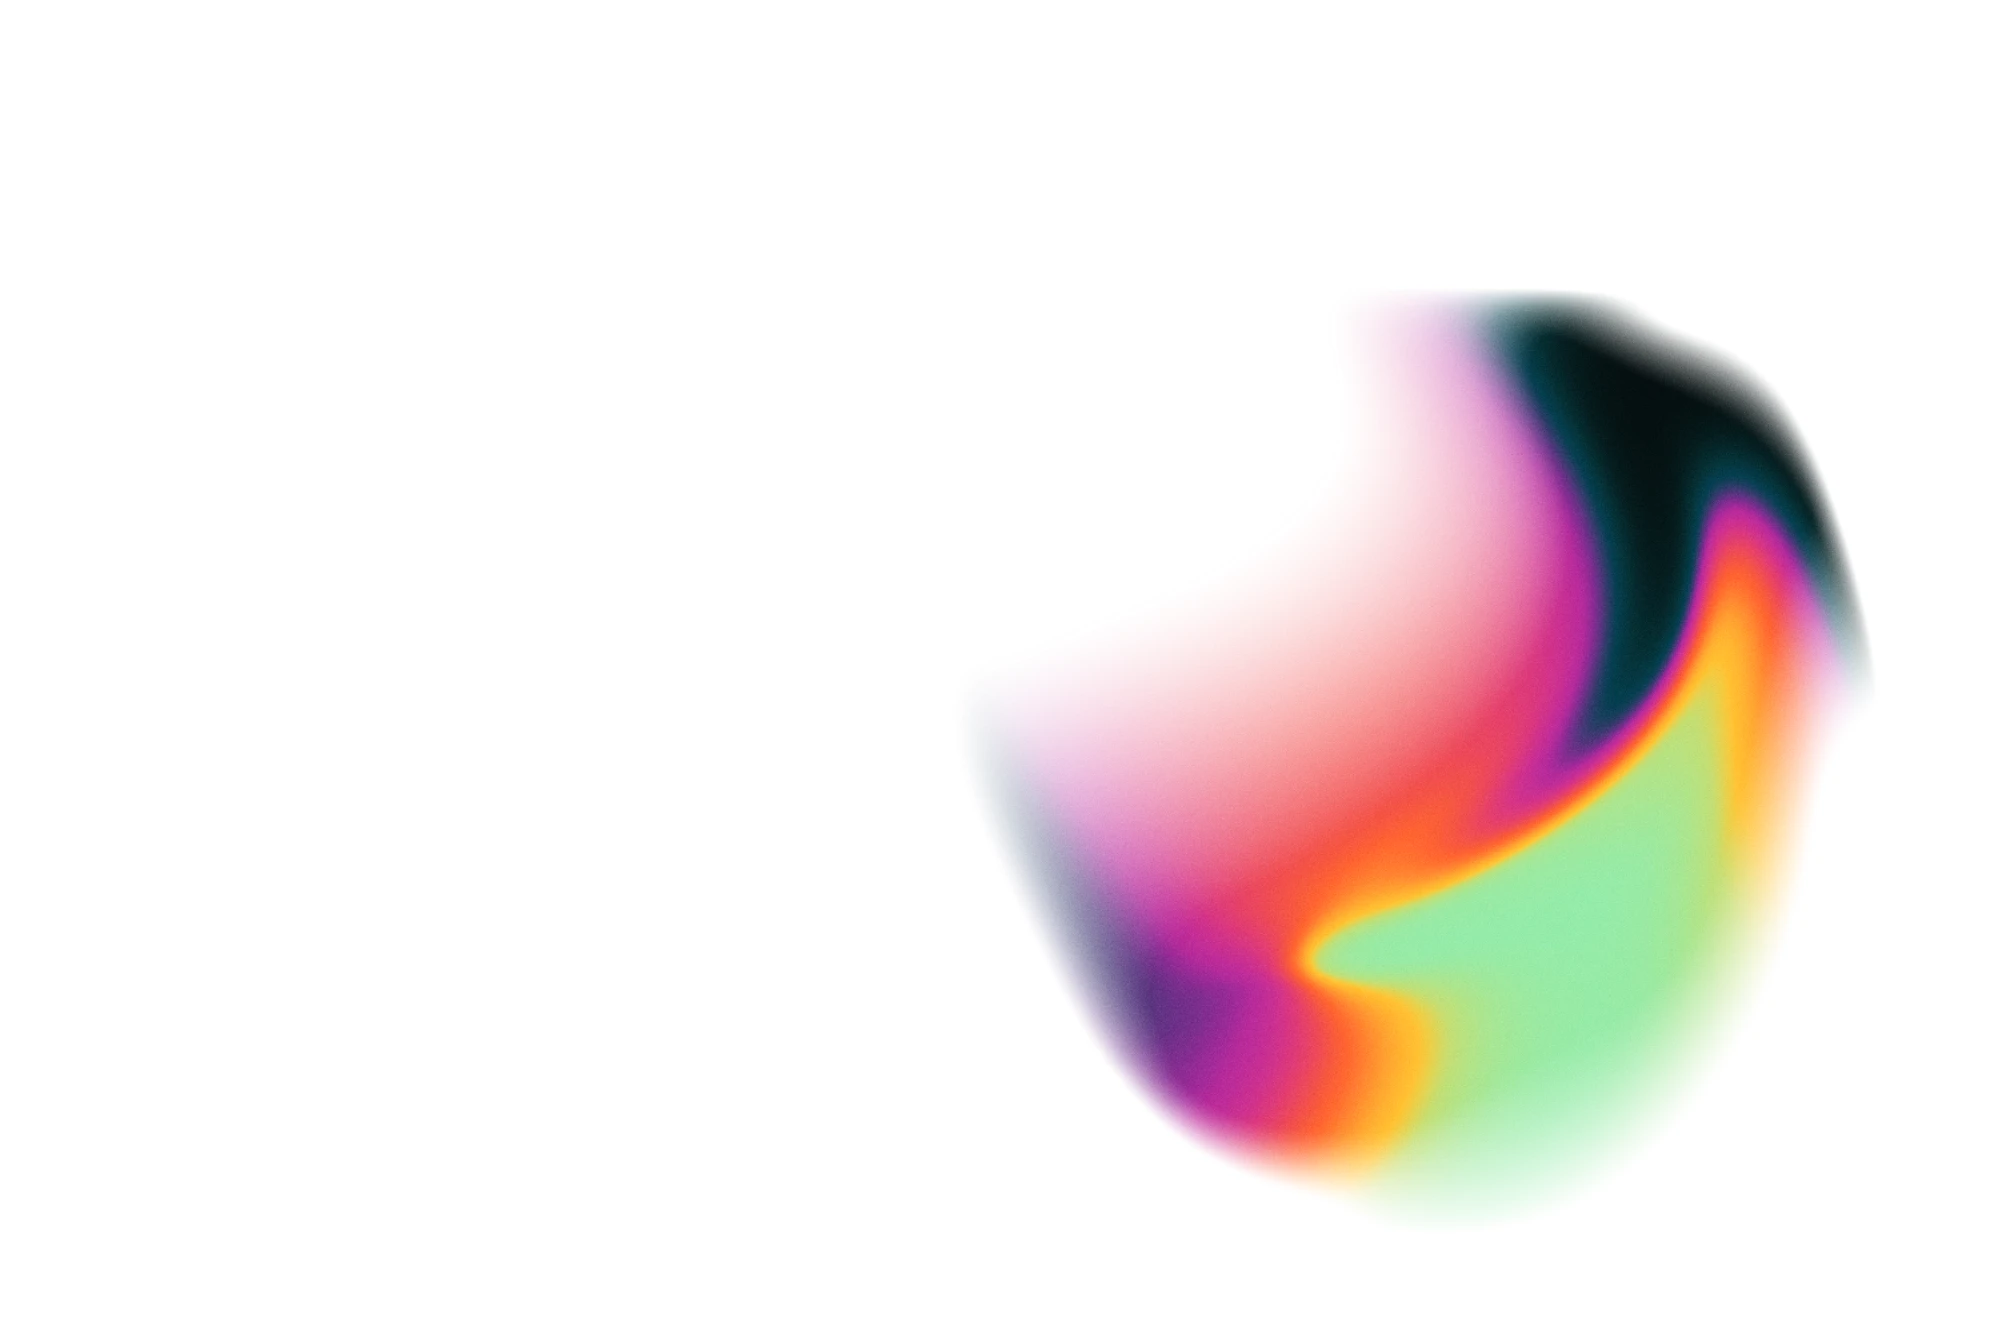
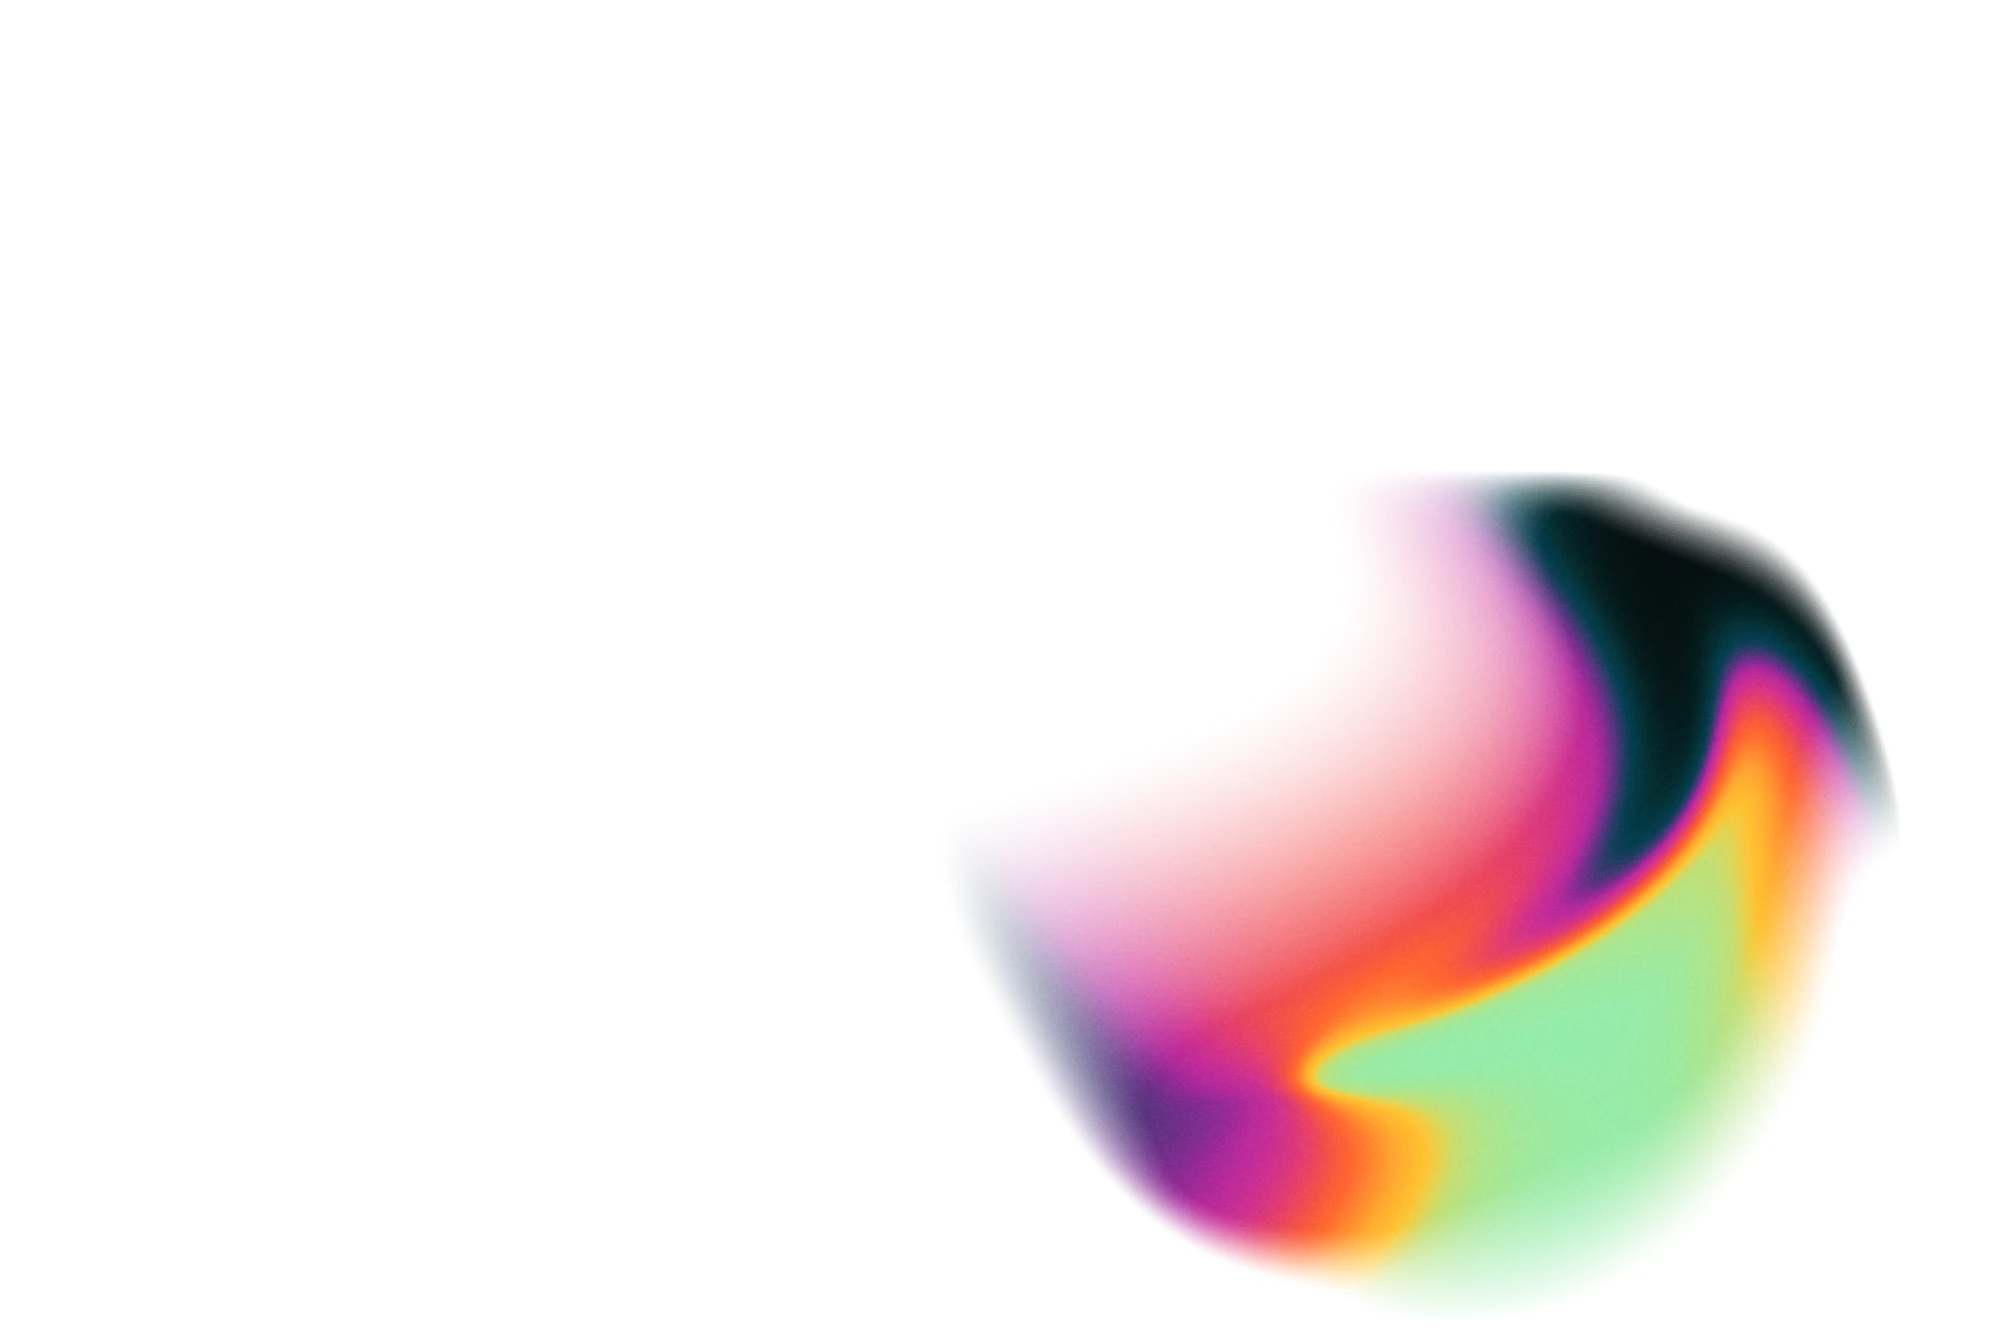
Landing page: hover turns the page dark and the buttons bright
Hovering or keyboard-focusing the buttons cross-fades the page to black
with the supplied dark orb artwork (same liquid/rotate/blend motion,
with colours glowing where they overlap), the headline turns white and
the buttons turn bright white with a glow in each button's colour.
The page background is driven from the same value as the orb so there
is never a visible band during the transition. Uses the matched
light/dark orb pair; the orb now sits a little lower in the frame.

Changed region(s): [[0.465, 0.2153, 0.961, 0.9842]]

diff --git a/assets/js/landing.js b/assets/js/landing.js
@@ -3,9 +3,22 @@
 
   const orb = document.querySelector(".orb");
   if (!orb) return;
+
+  // Hovering or focusing the buttons turns the page dark and the buttons bright.
+  const choices = document.querySelector(".choices");
+  const setDark = (on) => document.body.classList.toggle("is-dark", on);
+  if (choices) {
+    choices.addEventListener("pointerenter", (e) => { if (e.pointerType !== "touch") setDark(true); });
+    choices.addEventListener("pointerleave", () => setDark(false));
+    choices.addEventListener("focusin", (e) => { if (e.target.matches(":focus-visible")) setDark(true); });
+    choices.addEventListener("focusout", () => setDark(false));
+  }
+  window.addEventListener("pageshow", () => setDark(false));
+
   if (window.matchMedia("(prefers-reduced-motion: reduce)").matches) return;
 
   const IMG_SRC = "/assets/images/landing/orb.webp";
+  const IMG_DARK_SRC = "/assets/images/landing/orb-dark.webp";
   const mobileMQ = window.matchMedia("(max-width: 760px), (max-aspect-ratio: 1/1)");
   const DPR = Math.min(window.devicePixelRatio || 1, 1.5);
 
@@ -27,13 +40,15 @@
   const FRAG = `
     precision highp float;
     uniform sampler2D u_tex;
+    uniform sampler2D u_tex2;
+    uniform float u_dark;
     uniform vec2 u_res;
     uniform vec4 u_rect;
     uniform float u_time;
     uniform vec2 u_mouse;
     uniform float u_hover;
 
-    const vec2 C = vec2(0.71, 0.57);      // orb centre in image space
+    const vec2 C = vec2(0.715, 0.67);     // orb centre in image space
     const vec2 ASPECT = vec2(1.5, 1.0);   // image width : height
 
     float hash(vec2 p) {
@@ -72,6 +87,11 @@
                   texture2D(u_tex, uv + d * 1.07).g,
                   texture2D(u_tex, uv + d * 1.14).b);
     }
+    vec3 sampleDark(vec2 uv, vec2 d) {
+      return vec3(texture2D(u_tex2, uv + d).r,
+                  texture2D(u_tex2, uv + d * 1.07).g,
+                  texture2D(u_tex2, uv + d * 1.14).b);
+    }
 
     void main() {
       vec2 frag = vec2(gl_FragCoord.x, u_res.y - gl_FragCoord.y);
@@ -92,14 +112,23 @@
       disp += normalize(dv + 1e-5) * 0.03 * exp(-dot(dv, dv) * 45.0) * u_hover;
 
       // Two copies of the orb turning in opposite directions at different speeds
-      vec3 a = sampleOrb(swirl(uv, t * 0.07, 1.4 * sin(t * 0.11), 1.0), disp);
-      vec3 b = sampleOrb(swirl(uv, -t * 0.045 + 2.2, -1.1 * sin(t * 0.085 + 1.0), 1.06), disp * 0.8);
-
-      // Blend them like inks on white paper: they merge, deepen where they overlap, then part again
-      vec3 inkA = 1.0 - a, inkB = 1.0 - b;
+      vec2 uvA = swirl(uv, t * 0.07, 1.4 * sin(t * 0.11), 1.0);
+      vec2 uvB = swirl(uv, -t * 0.045 + 2.2, -1.1 * sin(t * 0.085 + 1.0), 1.06);
       float w = 0.5 + 0.5 * sin(t * 0.14);
-      vec3 ink = mix(inkA, inkB, w) + 0.28 * min(inkA, inkB);
-      vec3 col = clamp(1.0 - ink, 0.0, 1.0);
+
+      vec3 col = vec3(1.0);
+      if (u_dark < 0.999) {
+        // Light: blend them like inks on white paper, deepening where they overlap
+        vec3 inkA = 1.0 - sampleOrb(uvA, disp), inkB = 1.0 - sampleOrb(uvB, disp * 0.8);
+        vec3 ink = mix(inkA, inkB, w) + 0.28 * min(inkA, inkB);
+        col = clamp(1.0 - ink, 0.0, 1.0);
+      }
+      if (u_dark > 0.001) {
+        // Dark: the same motion, but colours glow where they overlap, like light on black
+        vec3 a2 = sampleDark(uvA, disp), b2 = sampleDark(uvB, disp * 0.8);
+        vec3 colD = clamp(mix(a2, b2, w) + 0.22 * min(a2, b2), 0.0, 1.0);
+        col = mix(col, colD, u_dark);
+      }
       float lum = dot(col, vec3(0.299, 0.587, 0.114));
       col = clamp(mix(vec3(lum), col, 1.35), 0.0, 1.0);   // keep blended colours vivid
 
@@ -136,7 +165,7 @@
   gl.vertexAttribPointer(loc, 2, gl.FLOAT, false, 0, 0);
 
   const U = {};
-  ["u_tex", "u_res", "u_rect", "u_time", "u_mouse", "u_hover"].forEach((n) => (U[n] = gl.getUniformLocation(prog, n)));
+  ["u_tex", "u_tex2", "u_dark", "u_res", "u_rect", "u_time", "u_mouse", "u_hover"].forEach((n) => (U[n] = gl.getUniformLocation(prog, n)));
 
   /* ---------- Layout (mirrors the CSS background sizing) ---------- */
   let IW = 2000, IH = 1333;
@@ -170,7 +199,24 @@
     mouse.timer = setTimeout(() => (mouse.target = 0), 1400);
   }, { passive: true });
 
-  /* ---------- Texture + loop ---------- */
+  /* ---------- Textures + loop ---------- */
+  const dark = { value: 0, ready: false };
+  const darkImg = new Image();
+  darkImg.onload = () => {
+    const tex2 = gl.createTexture();
+    gl.activeTexture(gl.TEXTURE1);
+    gl.bindTexture(gl.TEXTURE_2D, tex2);
+    gl.texImage2D(gl.TEXTURE_2D, 0, gl.RGB, gl.RGB, gl.UNSIGNED_BYTE, darkImg);
+    gl.texParameteri(gl.TEXTURE_2D, gl.TEXTURE_WRAP_S, gl.CLAMP_TO_EDGE);
+    gl.texParameteri(gl.TEXTURE_2D, gl.TEXTURE_WRAP_T, gl.CLAMP_TO_EDGE);
+    gl.texParameteri(gl.TEXTURE_2D, gl.TEXTURE_MIN_FILTER, gl.LINEAR);
+    gl.texParameteri(gl.TEXTURE_2D, gl.TEXTURE_MAG_FILTER, gl.LINEAR);
+    gl.uniform1i(U.u_tex2, 1);
+    gl.activeTexture(gl.TEXTURE0);
+    dark.ready = true;
+  };
+  darkImg.src = IMG_DARK_SRC;
+
   const img = new Image();
   img.onload = () => {
     IW = img.naturalWidth;
@@ -188,20 +234,31 @@
     layout();
     let last = performance.now();
     let first = true;
+    let lastShade = -1;
 
     const frame = (now) => {
       const dt = Math.min((now - last) / 1000, 0.1);
       last = now;
       mouse.hover += (mouse.target - mouse.hover) * Math.min(dt * 3, 1);
+      const darkTarget = dark.ready && document.body.classList.contains("is-dark") ? 1 : 0;
+      dark.value += (darkTarget - dark.value) * Math.min(dt * 5, 1);
+      if (Math.abs(darkTarget - dark.value) < 0.002) dark.value = darkTarget;
+      // Keep the page colour in lock-step with the orb so there is never a visible band between them
+      const shade = Math.round(255 * (1 - dark.value));
+      if (shade !== lastShade) {
+        lastShade = shade;
+        document.body.style.backgroundColor = `rgb(${shade}, ${shade}, ${shade})`;
+      }
 
       gl.uniform2f(U.u_res, W, H);
       gl.uniform4f(U.u_rect, rect[0], rect[1], rect[2], rect[3]);
       gl.uniform1f(U.u_time, now / 1000);
       gl.uniform2f(U.u_mouse, mouse.x, mouse.y);
       gl.uniform1f(U.u_hover, mouse.hover);
+      gl.uniform1f(U.u_dark, dark.value);
       gl.drawArrays(gl.TRIANGLE_STRIP, 0, 4);
 
-      if (first) { first = false; orb.classList.add("gl-on"); }
+      if (first) { first = false; orb.classList.add("gl-on"); document.body.classList.add("gl-bg"); }
       requestAnimationFrame(frame);
     };
     requestAnimationFrame(frame);

diff --git a/assets/css/landing.css b/assets/css/landing.css
@@ -18,6 +18,7 @@ body {
   font-family: "Inter", "Helvetica Neue", Arial, sans-serif;
   -webkit-font-smoothing: antialiased;
   overflow-x: hidden;
+  transition: background-color 0.7s ease;
 }
 
 .orb {
@@ -94,7 +95,7 @@ h1 {
   font-weight: 600;
   letter-spacing: -0.01em;
   box-shadow: 0 16px 30px -18px rgba(17, 19, 32, 0.7);
-  transition: transform 0.35s var(--ease), background 0.25s, border-color 0.25s, box-shadow 0.35s var(--ease);
+  transition: transform 0.35s var(--ease), background 0.5s, border-color 0.5s, color 0.5s, box-shadow 0.5s var(--ease);
 }
 
 .choice-dot {
@@ -125,6 +126,44 @@ h1 {
 .choice:focus-visible { outline: 3px solid var(--coral); outline-offset: 3px; }
 .choice:active { transform: translateX(6px) scale(0.985); }
 
+/* Dark state: hovering or focusing the buttons turns the page dark and the buttons bright */
+.greeting, h1 { transition: color 0.6s ease; }
+.orb { transition: background-color 0.7s ease; }
+.orb::after {
+  content: "";
+  position: absolute;
+  inset: 0;
+  background: #000 url("/assets/images/landing/orb-dark.webp") 100% 50% / cover no-repeat;
+  opacity: 0;
+  transition: opacity 0.7s ease;
+}
+.orb.gl-on::after { display: none; }
+
+body.is-dark { background: #000; }
+body.gl-bg { transition: none; }
+.is-dark .orb { background-color: #000; }
+.is-dark .orb::after { opacity: 1; }
+.is-dark .greeting { color: rgba(255, 255, 255, 0.72); }
+.is-dark h1 { color: #fff; }
+
+.choice:nth-child(1) { --glow: 255, 90, 54; }
+.choice:nth-child(2) { --glow: 214, 58, 190; }
+.choice:nth-child(3) { --glow: 85, 214, 138; }
+
+.is-dark .choice {
+  background: #fff;
+  border-color: #fff;
+  color: #111320;
+  box-shadow: 0 0 0 1px rgba(255, 255, 255, 0.25), 0 18px 40px -18px rgba(255, 255, 255, 0.45);
+}
+.is-dark .choice:hover,
+.is-dark .choice:focus-visible {
+  background: #fff;
+  border-color: #fff;
+  color: #111320;
+  box-shadow: 0 0 0 1px rgba(var(--glow), 0.9), 0 0 38px 6px rgba(var(--glow), 0.55), 0 22px 44px -16px rgba(var(--glow), 0.7);
+}
+
 /* Entrance */
 .greeting, h1, .choice {
   opacity: 0;
@@ -144,6 +183,10 @@ h1 { animation-delay: 0.22s; }
     inset: auto 0 0 0;
     height: 60vh;
     height: 60svh;
+    background-size: auto 100%;
+    background-position: 84% 50%;
+  }
+  .orb::after {
     background-size: auto 100%;
     background-position: 84% 50%;
   }

diff --git a/index.html b/index.html
@@ -7,10 +7,11 @@
   <meta name="description" content="Asy’s site: visual art, movie nights, and visual thinking tools.">
   <link rel="icon" type="image/png" href="/assets/images/blank-favicon.png?v=1">
   <link rel="preload" as="image" href="/assets/images/landing/orb.webp">
+  <link rel="preload" as="image" href="/assets/images/landing/orb-dark.webp">
   <link rel="preconnect" href="https://fonts.googleapis.com">
   <link rel="preconnect" href="https://fonts.gstatic.com" crossorigin>
   <link href="https://fonts.googleapis.com/css2?family=Bricolage+Grotesque:opsz,wght@12..96,500;12..96,700&family=Inter:wght@400;500;600&display=swap" rel="stylesheet">
-  <link rel="stylesheet" href="/assets/css/landing.css?v=4">
+  <link rel="stylesheet" href="/assets/css/landing.css?v=6">
 </head>
 <body>
   <div class="orb" aria-hidden="true"></div>
@@ -37,6 +38,6 @@
       </a>
     </nav>
   </main>
-  <script src="/assets/js/landing.js?v=5" defer></script>
+  <script src="/assets/js/landing.js?v=7" defer></script>
 </body>
 </html>
